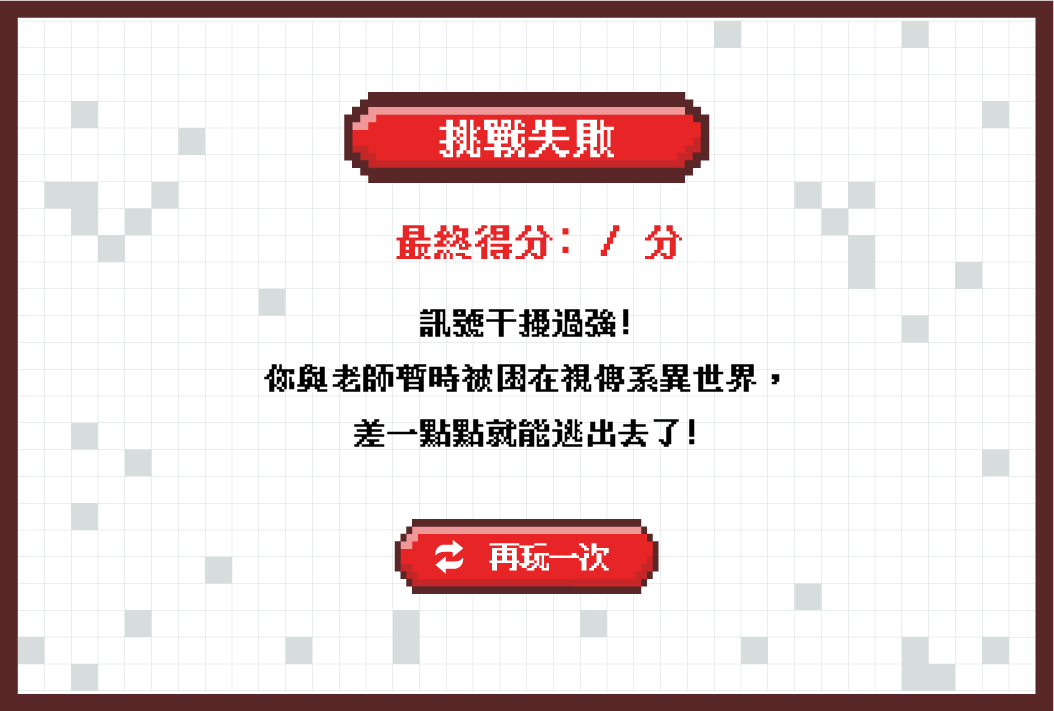
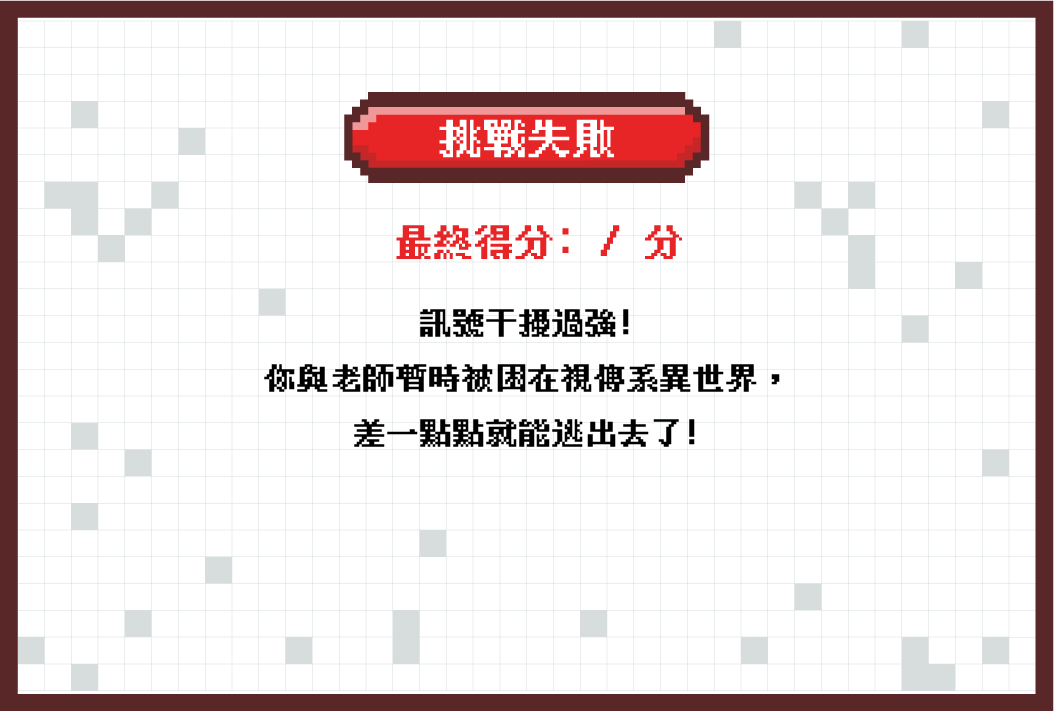
更新失敗與成功

Changed region(s): [[0.3643, 0.7117, 0.6376, 0.8354]]

diff --git a/css/style03.css b/css/style03.css
@@ -747,30 +747,35 @@ img {
   display: block;
 }
 
-/* 通用文字設定（可套用你們的像素字體） */
-.cert-text {
+/* 通用像素字體（獎狀分數、名字、失敗畫面分數共用） */
+.cert-text,
+.fail-score-pos,
+.fail-total-pos {
   position: absolute;
-  font-family: "Press Start 2P", "Cubic 11", monospace;
+  font-family: "YeZhaoFei", monospace !important;
   font-weight: bold;
+  -webkit-font-smoothing: none;
   pointer-events: none;
 }
 
-/* 通關成績數字（落在「通關成績：  題」中間的空格） */
+/* 通關成績 3/5 */
 .score-pos {
   top: 29.5%;
-  left: 28%;
-  font-size: clamp(14px, 1.8vw, 24px);
+  left: 27.5%;
+  font-size: clamp(16px, 4vw, 26px);
   color: #ffffff;
+  text-shadow: 1px 1px 0 #7a1010;
+  letter-spacing: 8px;
 }
 
-/* 挑戰者名字（落在「茲證明挑戰者____」的底線上） */
+/* 挑戰者名字（粗體版字型） */
 .name-pos {
-  top: 52%;
+  top: 51.6%;
   left: 30%;
-  font-size: clamp(15px, 3vw, 20px);
+  font-size: clamp(16px, 2vw, 24px);
   color: #a01515;
+  letter-spacing: 3px;
 }
-
 /* 左側玩家選擇的角色 */
 .cert-char {
   position: absolute;
@@ -916,7 +921,7 @@ img {
 .fail-score-pos {
   position: absolute;
   top: 31.3%;
-  left: 54.5%;
+  left: 55%;
   font-family: "Press Start 2P", "Cubic 11", monospace;
   font-size: clamp(18px, 2.2vw, 26px);
   font-weight: bold;
@@ -928,7 +933,7 @@ img {
 .fail-total-pos {
   position: absolute;
   top: 31.3%;
-  left: 59%;
+  left: 59.1%;
   font-family: "Press Start 2P", "Cubic 11", monospace;
   font-size: clamp(18px, 2.2vw, 26px);
   font-weight: bold;
@@ -936,19 +941,17 @@ img {
   pointer-events: none;
 }
 
-/* 雙按鈕並排容器（覆蓋在視窗下方按鈕區，遮住底圖原本的單一按鈕） */
+/* 雙按鈕並排容器（透明背景，不遮住底圖網格與邊框） */
 .fail-btn-group {
   position: absolute;
-  top: 71.5%;
+  top: 62%;
   left: 50%;
   transform: translateX(-50%);
-  width: 68%;
+  width: 65%;
   display: flex;
   justify-content: center;
   align-items: center;
-  gap: 20px;
-  background: #ffffff; /* 用白底稍微遮住底圖原本置中的單顆按鈕，若底圖已改好可刪掉這行 */
-  padding: 6px 0;
+  gap: 24px;
   z-index: 10;
 }
 
@@ -956,7 +959,7 @@ img {
   background: transparent;
   border: none;
   padding: 0;
-  width: 44%;
+  width: 45%;
   cursor: pointer;
   transition: transform 0.12s ease;
 }
@@ -966,15 +969,6 @@ img {
   height: auto;
   display: block;
 }
-
-.fail-img-btn:hover {
-  transform: scale(1.06);
-}
-
-.fail-img-btn:active {
-  transform: scale(0.95);
-}
-
 #feedback-overlay {
   position: fixed;
   inset: 0;
@@ -989,4 +983,14 @@ img {
   max-width: 65vw;
   max-height: 65vh;
   object-fit: contain;
+}
+/* 統一套用你在最上方引入的夜照飛 12 粗體字型（YeZhaoFei12 + bold） */
+.cert-text,
+.score-pos,
+.name-pos,
+.fail-score-pos,
+.fail-total-pos {
+  font-family: "YeZhaoFei12", "Microsoft JhengHei", sans-serif !important;
+  font-weight: bold !important;
+  -webkit-font-smoothing: none;
 }
